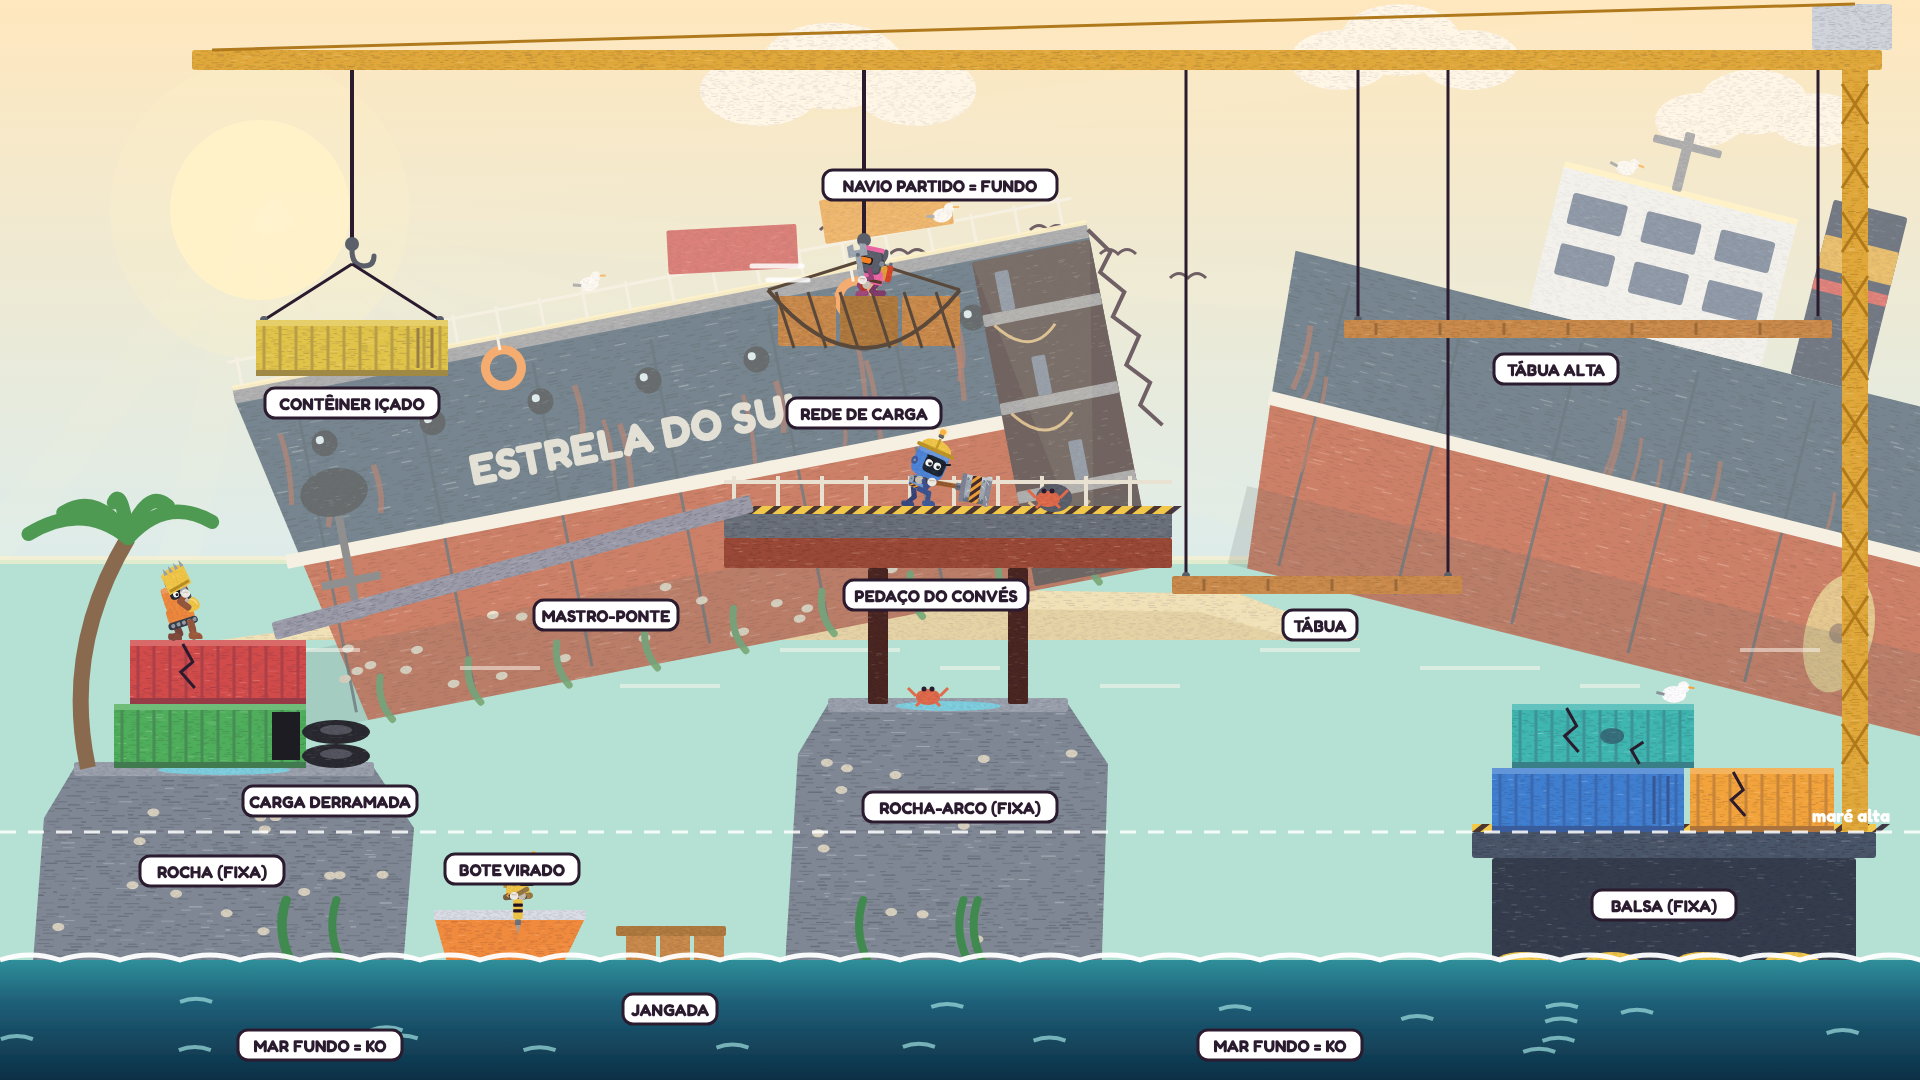
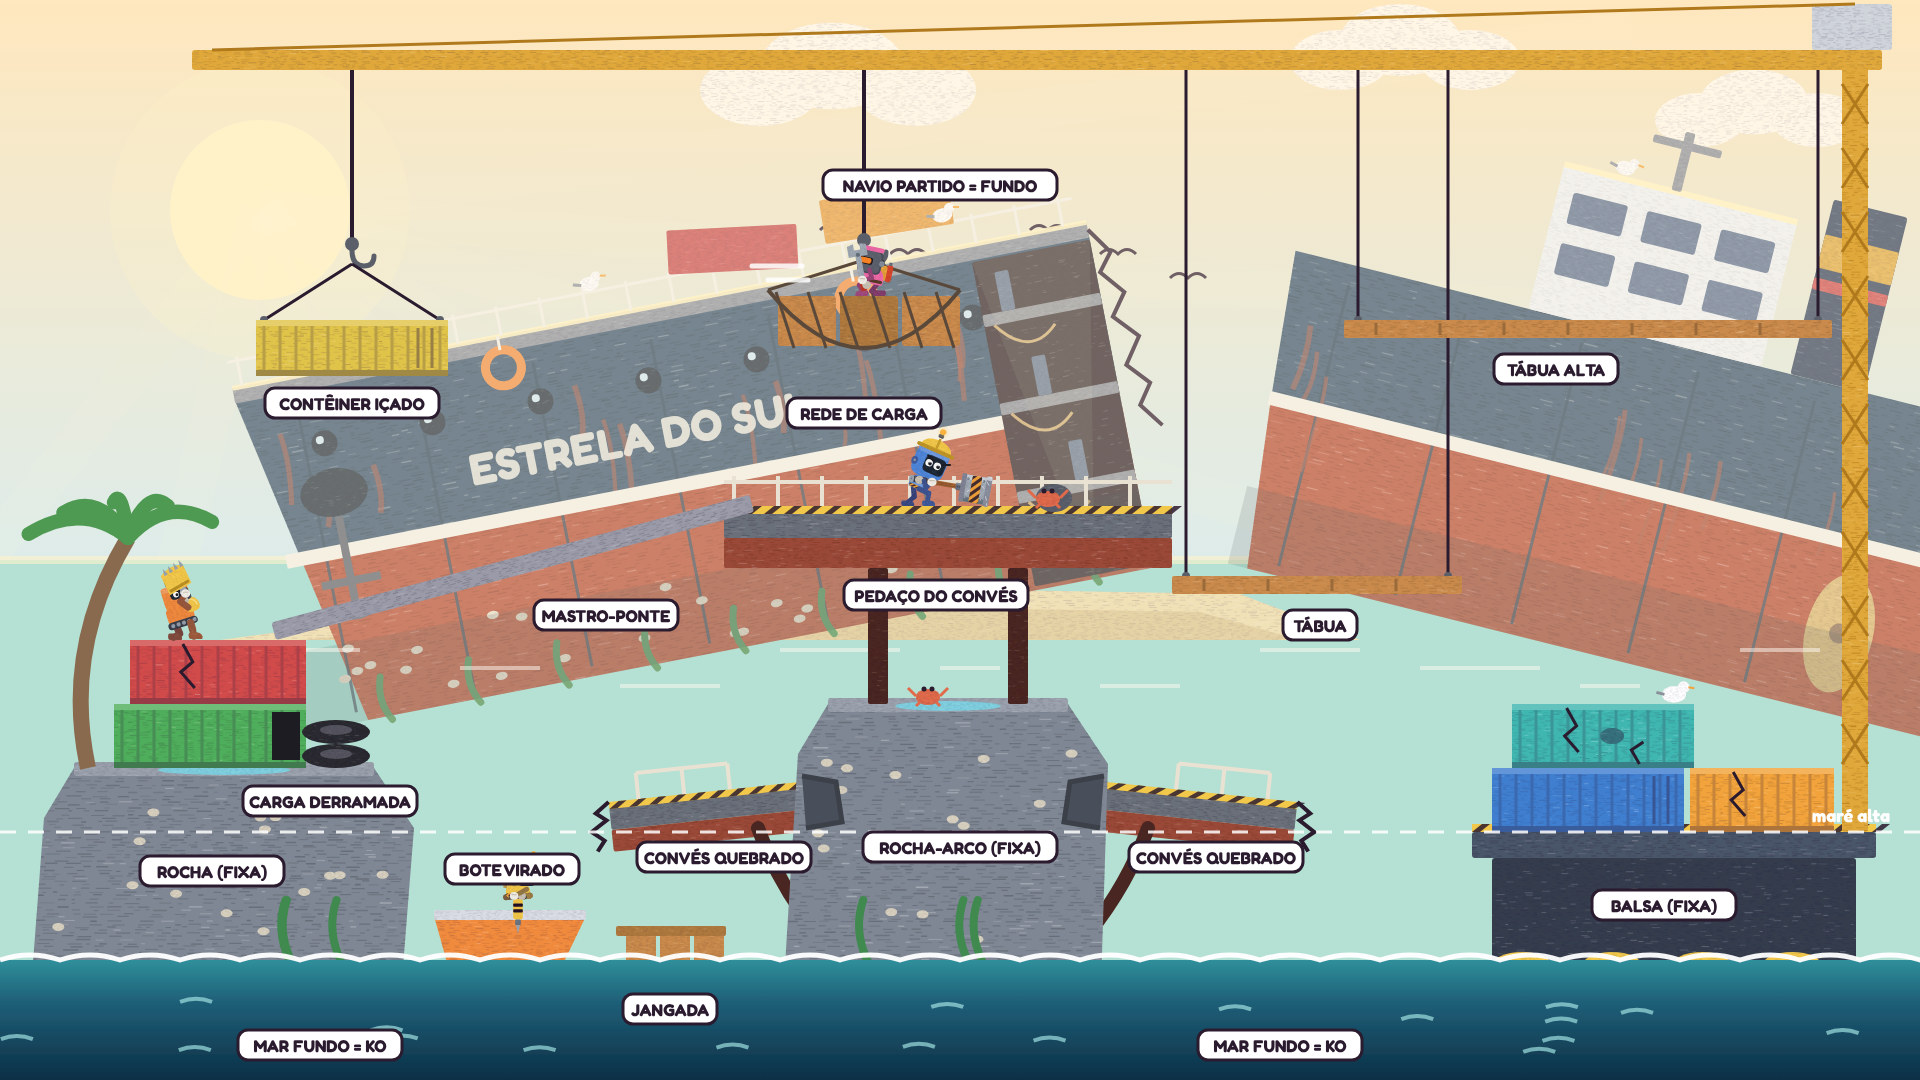
Cargueiro/Destroços: pedaços de convés quebrados encravados nos dois lados da rocha-arco
Claude-Session: https://claude.ai/code/session_018QUPBQj4sLX3w64QQJCiVt

Changed region(s): [[0.3125, 0.7028, 0.6875, 0.8556]]

diff --git a/art/src/cenarios/f2_prancha.py b/art/src/cenarios/f2_prancha.py
@@ -471,7 +471,34 @@ def c2_palco():
     bx, bw = BALSA2
     # ---- FIXO: rochas com topo plano medido (o que se pisa é o topo)
     o += rocha2([(rx0 - 40, H), (rx0 - 20, ry + 50), (rx0 + 10, ry), (rx1 - 10, ry), (rx1 + 30, ry + 60), (rx1 + 10, H)], rx0 + 10, rx1 - 10, ry, 3)
+    # pedaços de convés quebrados encravados nos DOIS lados da rocha-arco (nível 12): a ponta de dentro some na fenda da rocha,
+    # uma escora torta apoia por baixo na encosta. Desenhados ANTES da rocha para a ponta de dentro ficar escondida nela.
+    for lado in (-1, 1):
+        borda = mx0 - 10 if lado < 0 else mx1 + 20          # encosta da rocha na altura do nível 12
+        x_in = borda + (-lado) * 40                          # ponta de dentro (enfiada na rocha)
+        x_out = borda + lado * 190                           # ponta de fora (quebrada, sobre o mar)
+        xa, xb = min(x_in, x_out), max(x_in, x_out)
+        y = 12 * T + 16
+        ang = 6 * lado                                       # leve caída para fora
+        piv = (x_in, y)
+        o += f'<g transform="rotate({ang} {piv[0]} {piv[1]})">'
+        o += R(xa, y, xb - xa, 22, "#6b6f7a", 2, 1.4, dark="#4a4f5a") + R(xa, y + 22, xb - xa, 22, "#9a4a38", 2, 1.2, dark="#7a3424")
+        o += zebra(xa, y - 6, xb - xa, 7)
+        ex = x_out
+        o += f'<path d="M{ex},{y - 6} l{lado * 14},10 l{-lado * 10},8 l{lado * 16},10 l{-lado * 12},10 l{lado * 8},10" stroke="{INK}" stroke-width="4" fill="none"/>'
+        for k in range(3):
+            xx = x_out - lado * (30 + k * 46)
+            o += f'<path d="M{xx},{y - 6} v-26" stroke="#e9e2d2" stroke-width="4"/>'
+        o += f'<path d="M{x_out - lado * 30},{y - 32} L{x_out - lado * 122},{y - 32}" stroke="#e9e2d2" stroke-width="4"/>'
+        o += "</g>"
+        # escora torta: da parte de baixo do pedaço até a encosta da rocha mais abaixo
+        sx = x_in + lado * 80
+        o += f'<path d="M{sx},{y + 44} Q{sx - lado * 20},{y + 100} {borda - lado * 20},{y + 150}" stroke="#4a2620" stroke-width="14" fill="none" stroke-linecap="round"/>'
     o += rocha2([(mx0 - 30, H), (mx0 - 10, my + 50), (mx0 + 20, my), (mx1 - 20, my), (mx1 + 20, my + 60), (mx1 + 10, H)], mx0 + 20, mx1 - 20, my, 7)
+    for lado in (-1, 1):   # a fenda onde o convés entrou (por cima da rocha)
+        borda = mx0 - 10 if lado < 0 else mx1 + 20
+        o += f'<path d="M{borda - lado * 4},{12 * T + 8} l{-lado * 34},6 l{-lado * 6},40 l{lado * 36},6" stroke="#3a3f48" stroke-width="5" fill="#4a505a"/>'
+
     o += f'<path d="M{mx0 + 60},{H} q{(mx1 - mx0 - 120) / 2},-150 {mx1 - mx0 - 120},0" fill="#174a5a"/>'   # vão do arco
     o += balsa(bx, bw)
     tx = bx + bw - 34                     # torre da grua presa na ponta direita da balsa
@@ -558,8 +585,8 @@ def c2_frente():
     o += f'<path d="M0,{MAR2} ' + "".join("q30,-10 60,0 " for _ in range(33)) + '" stroke="#ffffff" stroke-width="5" fill="none" opacity="0.95"/>'
     o += f'<path d="M0,{13 * T} H{W}" stroke="#ffffff" stroke-width="3" stroke-dasharray="16 12" opacity="0.85"/>'
     o += f'<text x="{W - 30}" y="{13 * T - 10}" font-family="Fredoka" font-weight="700" font-size="18" fill="#ffffff" text-anchor="end">maré alta</text>'
-    o += tag(3 * T + 20, 13 * T + 40, "ROCHA (FIXA)") + tag(15 * T, 12 * T + 40, "ROCHA-ARCO (FIXA)") + tag(26 * T, 14 * T + 10, "BALSA (FIXA)")
-    o += tag(5 * T + 10, 12 * T + 34, "CARGA DERRAMADA") + tag(9 * T + 30, 9 * T + 40, "MASTRO-PONTE") + tag(14 * T + 40, 9 * T + 20, "PEDAÇO DO CONVÉS")
+    o += tag(3 * T + 20, 13 * T + 40, "ROCHA (FIXA)") + tag(15 * T, 12 * T + 80, "ROCHA-ARCO (FIXA)") + tag(26 * T, 14 * T + 10, "BALSA (FIXA)")
+    o += tag(5 * T + 10, 12 * T + 34, "CARGA DERRAMADA") + tag(9 * T + 30, 9 * T + 40, "MASTRO-PONTE") + tag(14 * T + 40, 9 * T + 20, "PEDAÇO DO CONVÉS") + tag(11 * T + 20, 13 * T + 26, "CONVÉS QUEBRADO") + tag(19 * T, 13 * T + 26, "CONVÉS QUEBRADO")
     o += tag(8 * T, MAR2 - 90, "BOTE VIRADO") + tag(10 * T + 30, MAR2 + 50, "JANGADA") + tag(13 * T + 32, 6 * T + 30, "REDE DE CARGA")
     o += tag(5 * T + 32, 6 * T + 20, "CONTÊINER IÇADO") + tag(20 * T + 40, 9 * T + 50, "TÁBUA") + tag(24 * T + 20, 5 * T + 50, "TÁBUA ALTA")
     o += tag(5 * T, H - 34, "MAR FUNDO = KO") + tag(20 * T, H - 34, "MAR FUNDO = KO") + tag(940, 186, "NAVIO PARTIDO = FUNDO")
